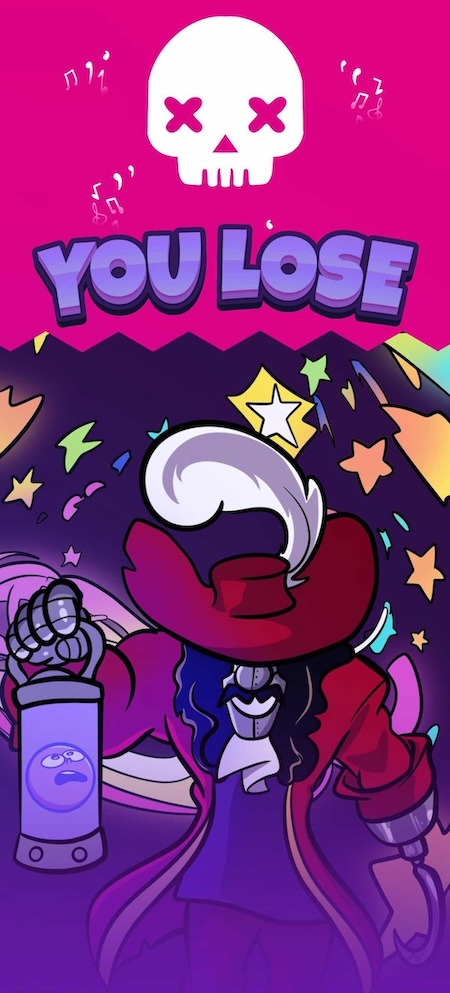
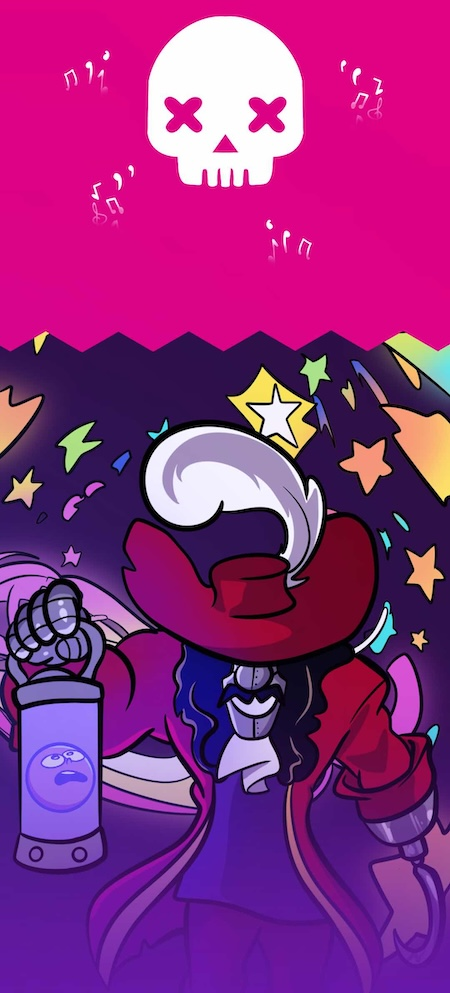
fix: finish position for game

Changed region(s): [[0.0622, 0.2185, 0.9333, 0.3434]]

diff --git a/src/game/scenes/Game.ts b/src/game/scenes/Game.ts
@@ -11,8 +11,9 @@ import {
   duplicateArrayElemToN,
   getBeatsArray,
   createRandomNumber,
-  getWinningRewardsByPosition,
+  // getWinningRewardsByPosition,
   getTotalWinningRewards,
+  noToPositionSuffix,
 } from "../../helpers";
 import { EventBus } from "../EventBus";
 import { IGameDataParams } from "../PhaserGame";
@@ -500,25 +501,25 @@ export default class Game extends Phaser.Scene {
       });
     }
   };
-  showXp(position: number, level: number) {
-    const { xp, dash } = getWinningRewardsByPosition(position, level);
-    console.log("xp: ", xp);
-    console.log("dash: ", dash);
-    const xpText = this.add
-      .text(this.centerX, 60 * this.dpr, `+${xp}XP`, {
-        fontSize: `${52 * this.dpr}px`,
-        color: "#573FC8",
-        stroke: "#fff",
-        strokeThickness: 4,
-      })
-      .setVisible(false)
-      .setDepth(1000001)
-      .setScrollFactor(0);
-    xpText.setPosition(
-      xpText.x - xpText.width / 2,
-      xpText.y - xpText.height / 2
-    );
-  }
+  // showXp(position: number, level: number) {
+  //   const { xp, dash } = getWinningRewardsByPosition(position, level);
+  //   console.log("xp: ", xp);
+  //   console.log("dash: ", dash);
+  //   const xpText = this.add
+  //     .text(this.centerX, 60 * this.dpr, `+${xp}XP`, {
+  //       fontSize: `${52 * this.dpr}px`,
+  //       color: "#573FC8",
+  //       stroke: "#fff",
+  //       strokeThickness: 4,
+  //     })
+  //     .setVisible(false)
+  //     .setDepth(1000001)
+  //     .setScrollFactor(0);
+  //   xpText.setPosition(
+  //     xpText.x - xpText.width / 2,
+  //     xpText.y - xpText.height / 2
+  //   );
+  // }
   showResult() {
     // console.log("result voicesWinPositions: ", this.voicesWinPositions);
     const _voicesWinPositions = [...this.voicesWinPositions]; // Just to make sure the original array is not modified
@@ -586,25 +587,35 @@ export default class Game extends Phaser.Scene {
     //   .setDepth(1000001)
     //   .setScrollFactor(0);
     // eDash.setPosition(eDash.x - eDash.width / 2, eDash.y - eDash.height / 2);
-    // const xpText = this.add
-    //   .text(
-    //     this.centerX,
-    //     60 * this.dpr + eDash.height,
-    //     `+${userWinningRewards.totalXp} XP`,
-    //     {
-    //       fontSize: `${26 * this.dpr}px`,
-    //       color: "#573FC8",
-    //       stroke: "#fff",
-    //       strokeThickness: 4,
-    //     }
-    //   )
-    //   .setVisible(false)
-    //   .setDepth(1000001)
-    //   .setScrollFactor(0);
-    // xpText.setPosition(
-    //   xpText.x - xpText.width / 2,
-    //   xpText.y - xpText.height / 2
-    // );
+    const lowestPosition = _.min(userMarblePositions) as number;
+    const finalUserPosition = userWinners.length
+      ? noToPositionSuffix(lowestPosition)
+      : "YOU LOST";
+    const xpText = this.add
+      .text(
+        this.centerX,
+        (userWinners.length ? 160 : 220) * this.dpr,
+        finalUserPosition,
+        {
+          fontSize: `${66 * this.dpr}px`,
+          color:
+            lowestPosition <= this.userMarbleIndexes.length
+              ? "#00f5e7" // "linear-gradient(0deg, rgba(48,168,185,1) 50%, rgba(0,237,243,1) 100%)"
+              : "#a479fe", //"linear-gradient(0deg, rgba(167,108,254,1) 50%, rgba(163,52,184,1) 100%)",
+          stroke:
+            lowestPosition <= this.userMarbleIndexes.length
+              ? "#003f61"
+              : "#2f1a62",
+          strokeThickness: 12 * this.dpr,
+        }
+      )
+      .setVisible(false)
+      .setDepth(1000001)
+      .setScrollFactor(0);
+    xpText.setPosition(
+      xpText.x - xpText.width / 2,
+      xpText.y - xpText.height / 2
+    );
     // Add tween to scale the result image from 0 to 1
     this.tweens.add({
       targets: resultImage,
@@ -612,7 +623,7 @@ export default class Game extends Phaser.Scene {
       duration: 500,
       ease: "Bounce.out",
       onComplete: () => {
-        // xpText.setVisible(true);
+        xpText.setVisible(true);
         // eDash.setVisible(true);
         EventBus.emit(
           "game-over",

diff --git a/src/helpers/index.ts b/src/helpers/index.ts
@@ -1198,3 +1198,13 @@ export const getRewardTokensAmount = (rewardType: RewardType) => {
       return 0;
   }
 };
+
+export const noToPositionSuffix = (position: number) => {
+  return position === 4
+    ? "Fourth"
+    : position === 3
+    ? "THIRD"
+    : position === 2
+    ? "SECOND"
+    : "YOU WIN";
+};
